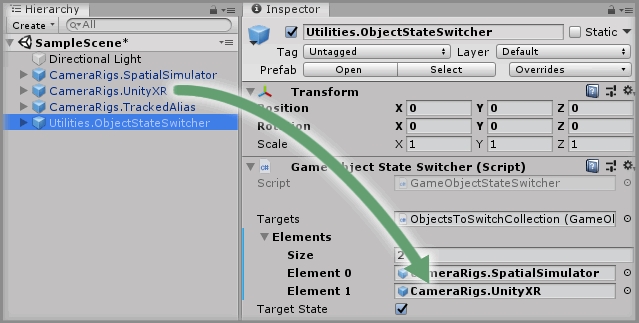
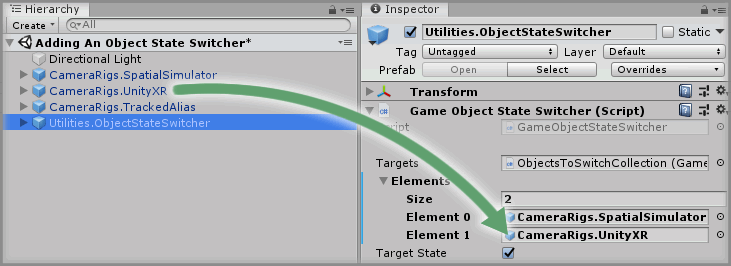
fix(Documentation): apply style guidelines
The guide has had the style guidelines applied to it to
make it more consistent.

diff --git a/Documentation/HowToGuides/AddingAnObjectStateSwitcher/README.md b/Documentation/HowToGuides/AddingAnObjectStateSwitcher/README.md
@@ -1,4 +1,4 @@
-# Adding A Tracked Alias
+# Adding An Object State Switcher
 
 > * Level: Beginner
 >
@@ -8,7 +8,7 @@
 
 ## Introduction
 
-The Object State Switcher prefab allows for the active state of multiple GameObjects to be switched between via a screen space user interface.
+The `Object State Switcher` prefab allows for the active state of multiple GameObjects to be switched between via a screen space user interface.
 
 In this guide, we'll learn how to use the ObjectStateSwitcher prefab to manually switch between different CameraRigs within the scene.
 
@@ -16,8 +16,6 @@ In this guide, we'll learn how to use the ObjectStateSwitcher prefab to manually
 
 ## Prerequisites
 
-* [Add the Tilia.CameraRigs.SpatialSimulator.Unity] prefab to the scene Hierarchy.
-* [Add the Tilia.CameraRigs.UnityXR] prefab to the scene Hierarchy.
 * [Add the Tilia.CameraRigs.TrackedAlias.Unity] prefab to the scene Hierarchy.
 * [Install the Tilia.Utilities.ObjectStateSwitcher.Unity] package dependency in to your [Unity] project.
 
@@ -39,15 +37,17 @@ Select the `Utilities.ObjectStateSwitcher` GameObject in the Unity Hierarchy win
 
 ### Step 3
 
-Drag and drop the `CameraRigs.SpatialSimulator` GameObject from the Unity Hierarchy window into the newly displayed Element `0` field within the `Elements` parameter on the `Game Object State Switcher` component.
+Drag and drop the `CameraRigs.SpatialSimulator` GameObject from the Unity Hierarchy window into the newly displayed `Element 0` field within the `Target` property on the `Game Object State Switcher` component.
 
 ![Drag And Drop Spatial Simulator Into ObjectStateSwitcher](assets/images/DragAndDropSpatialSimulatorIntoObjectStateSwitcher.png)
 
 ### Step 4
 
-Drag and drop the `CameraRigs.UnityXR` GameObject from the Unity Hierarchy window into the newly displayed Element `1` field within the `Elements` parameter on the `Game Object State Switcher` component. Ensure both CameraRigs are active in the scene as the Object State Switcher prefab will ensure only one is active at runtime.
+Drag and drop the `CameraRigs.UnityXR` GameObject from the Unity Hierarchy window into the newly displayed `Element 1` field within the `Target` property on the `Game Object State Switcher` component.
 
 ![Drag And Drop UnityXR Into ObjectStateSwitcher](assets/images/DragAndDropUnityXRIntoObjectStateSwitcher.png)
+
+Ensure both CameraRigs are active in the scene as the Object State Switcher prefab will ensure only one is active at runtime.
 
 ### Done
 
@@ -59,8 +59,6 @@ Now unlock the mouse pointer from the Unity Game window by pressing the Lock tog
 
 ![Switch To SpatialSimulator CameraRig](assets/images/SwitchToSpatialSimulatorCameraRig.png)
 
-[Add the Tilia.CameraRigs.SpatialSimulator.Unity]: https://github.com/ExtendRealityLtd/Tilia.CameraRigs.SpatialSimulator.Unity/blob/master/Documentation/HowToGuides/AddingASpatialSimulatorCameraRig/README.md
-[Add the Tilia.CameraRigs.UnityXR]: https://github.com/ExtendRealityLtd/Tilia.CameraRigs.UnityXR/blob/master/Documentation/HowToGuides/AddingAUnityXRCameraRig/README.md
 [Add the Tilia.CameraRigs.TrackedAlias.Unity]: https://github.com/ExtendRealityLtd/Tilia.CameraRigs.TrackedAlias.Unity/blob/master/Documentation/HowToGuides/AddingATrackedAlias/README.md
 [Install the Tilia.Utilities.ObjectStateSwitcher.Unity]: ../Installation/README.md
 [Unity]: https://unity3d.com/

diff --git a/Documentation/HowToGuides/Installation/README.md b/Documentation/HowToGuides/Installation/README.md
@@ -64,5 +64,5 @@ The package will now also show up in the Unity Package Manager UI. From then on 
 [Unity Package Manager]: https://docs.unity3d.com/Manual/upm-ui.html
 [Project-Manifest]: https://docs.unity3d.com/Manual/upm-manifestPrj.html
 [Version-Release]: https://img.shields.io/github/release/ExtendRealityLtd/Tilia.Utilities.ObjectStateSwitcher.Unity.svg
-[Releases]: ../../releases
-[Latest-Release]: ../../releases/latest
+[Releases]: ../../../../../releases
+[Latest-Release]: ../../../../../releases/latest
